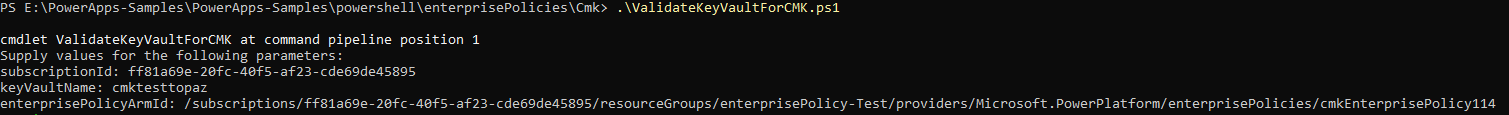
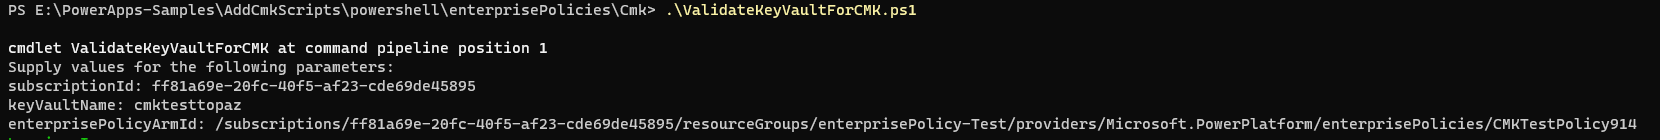
Update ValidateKeyVaultForCMK script to add more validation on key

diff --git a/powershell/enterprisePolicies/README.md b/powershell/enterprisePolicies/README.md
@@ -77,17 +77,22 @@ Sample Output :</br>
 ![alt text](./ReadMeImages/GetCMKInResourceGroup2.png)</br>
 
 ### Validate Azure Key Vault
-5. **Validate Azure Key Vault** : This script checks if the Key Vault is setup correctly according to the pre-requisites required by the Power Platform CMK Enterprise Policy</br>
-    - Soft-delete : if not enabled, then a warning message is displayed (soft-delete is a read only property and can’t be fixed). Follow the instructions at
+5. **Validate Azure Key Vault** : This script checks if the Key Vault is setup correctly according to the pre-requisites required by the Power Platform CMK Enterprise Policy. For details please follow the setup instructions at https://learn.microsoft.com/en-us/power-platform/admin/customer-managed-key#create-encryption-key-and-grant-access</br>
+	Following major validations are performed:
+    - Soft-delete is enabled for key vault: Please follow the instructions at </br>
       https://docs.microsoft.com/en-us/azure/key-vault/general/soft-delete-change to update the soft delete property.
-    - Purge protection - if not enabled, then enables it for the customer
-    - Adds the access policies to the Key Vault with permission GET, UNWRAPKEY, WRAPKEY for the given enterprise policy</br>
+    - Purge protection is enabled for key vault: Please follow the istructions at </br>
+	  https://learn.microsoft.com/en-us/azure/key-vault/general/key-vault-recovery?tabs=azure-portal to get details about enabling Purge Protection</br>
+	- "Key Vault Crypto Service Encryption User" role assignment is present for the given enterprise policy if key vault permission model is Azure role based access control.</br>
+    - Access policies of GET, UNWRAPKEY, WRAPKEY are added to the key vault for the given enterprise policy if key vault permission model is vault access policy.</br>
+	- Key configured for the given enterprise policy is present, enabled, activated and not expired.</br>
+	 
 
 Script name : ValidateKeyVaultForCMK.ps1</br>
-Input parameters :
-    - subscriptionId : The Azure subscription Id of the Key Vault
-    - keyVaultName : The name of the key Vault
-    - enterprisePolicyArmId : The CMK enterprise policy ARM Id which should have permission GET, UNWRAPKEY, WRAPKEY for the key vault
+Input parameters:
+- subscriptionId : The Azure subscription Id of the Key Vault
+- keyVaultName : The name of the key Vault
+- enterprisePolicyArmId : The CMK enterprise policy ARM Id 
 
 Sample Input : </br>
 ![alt text](./ReadMeImages/ValidateKeyVault1.png)</br>
